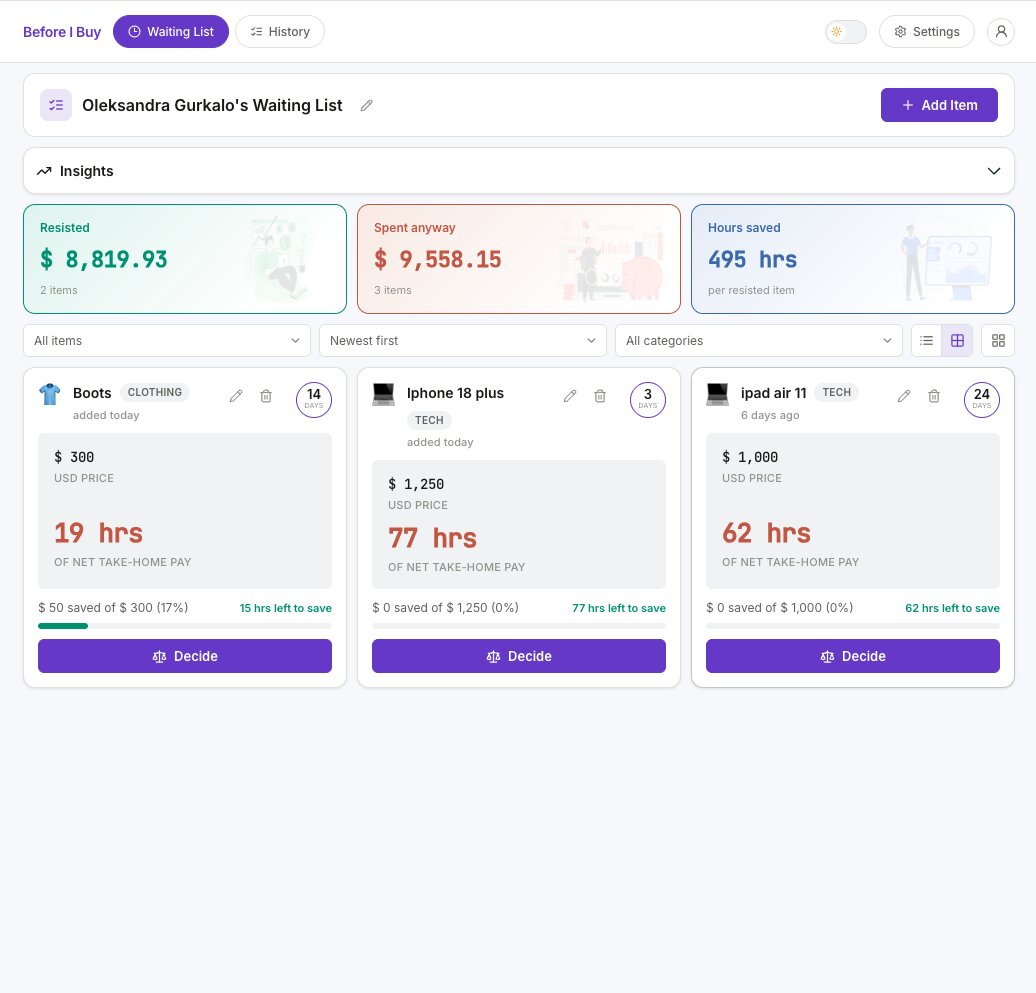
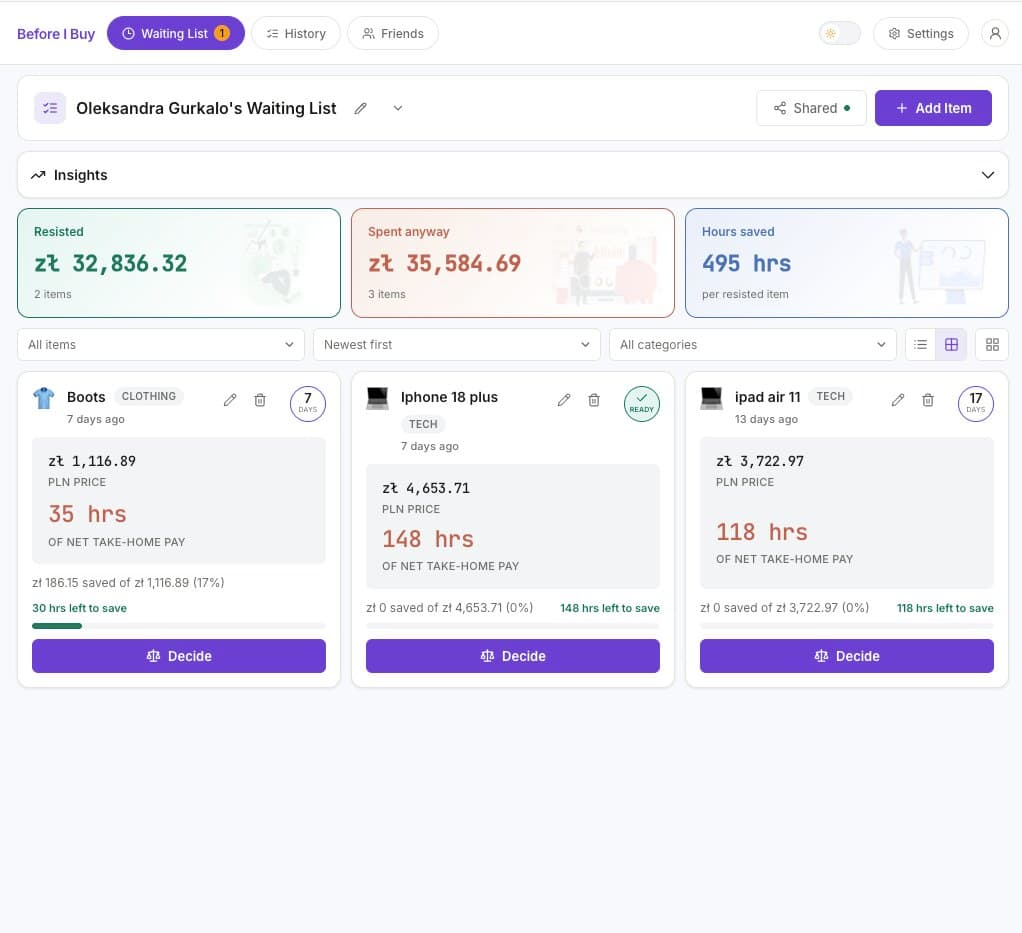
update(content) - expand "Before I Buy" case study with feature highlights and shared wish lists

diff --git a/src/data/content.js b/src/data/content.js
@@ -53,13 +53,16 @@ export const featuredProject = {
   role: 'Solo',
   caseStudy: {
     problem:
-      'Impulse purchases are easy to rationalize when the price is viewed as a single number. Before I Buy reframes the cost as working time, giving users a more meaningful way to pause and reconsider a purchase.',
+      'Impulse purchases are easy to rationalize when the price is viewed as a single number. Before I Buy reframes the cost as working time, giving users a more meaningful way to pause and reconsider a purchase, and lets them share wish lists with friends for accountability and easier gift-giving.',
     approach: [
       'Built a responsive waiting-list application where users add items, choose a cooling-off period and return when the item is ready to decide.',
       'Implemented income-based price conversion using hourly, monthly or annual income, with support for net or gross pay and five currencies.',
       'Added live currency conversion with a static fallback table so the application remains useful when exchange-rate data is unavailable.',
+      'Built a friend request system with read-only shared wish lists, so friends can see items of interest without exposing pay or other personal data.',
+      'Support multiple named lists per user with per-list savings-progress tracking, for organizing purchases by goal or occasion.',
       'Built purchase history, resistance tracking, streaks and category-based spending insights.',
       'Implemented authentication, PostgreSQL data storage and realtime synchronization using Supabase.',
+      'Added dark/light mode with system preference detection.',
       'Moved account deletion to a Vercel serverless function because the Supabase service-role key required for a hard delete cannot safely be exposed in client-side code.',
     ],
     result:
